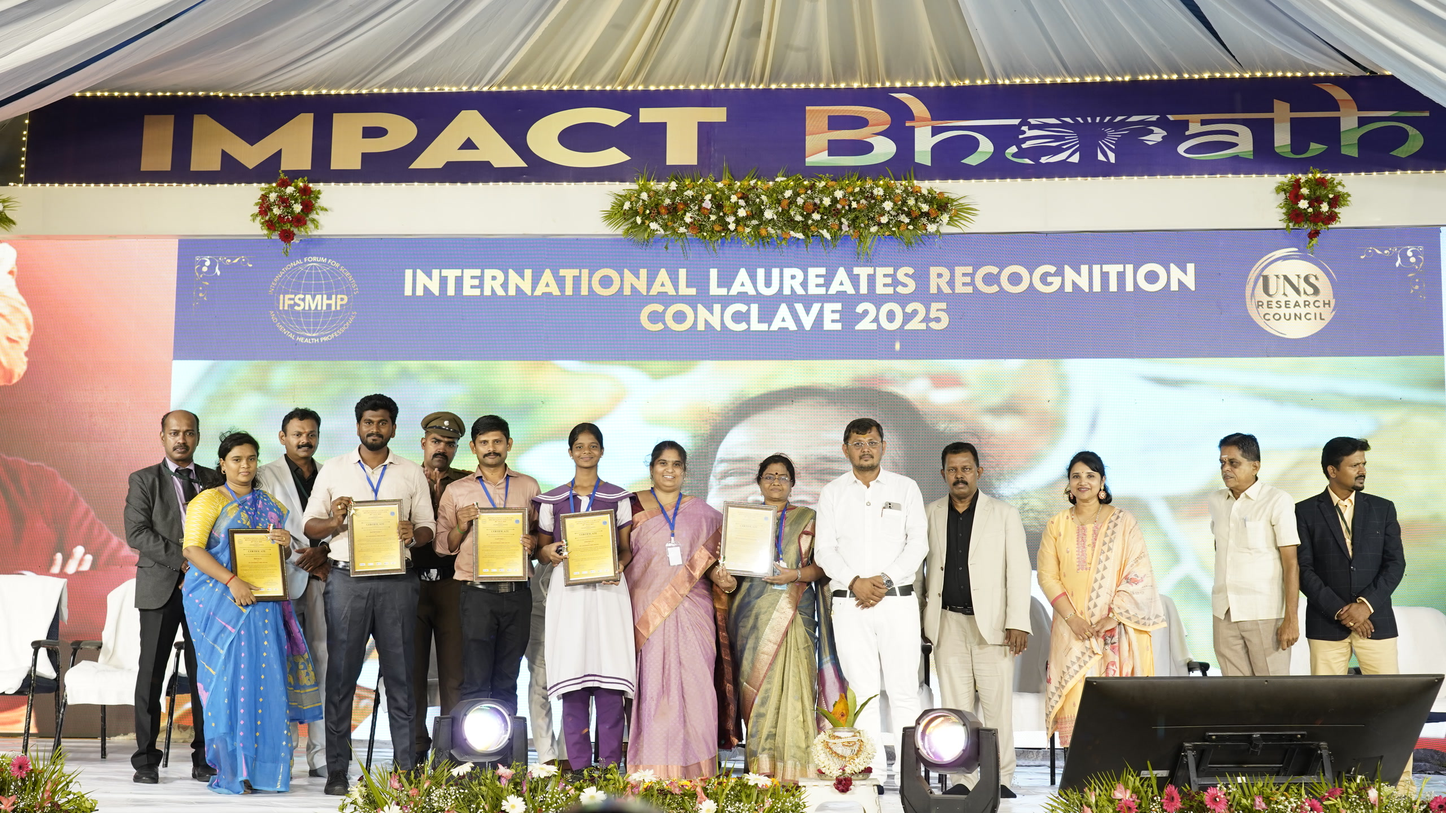
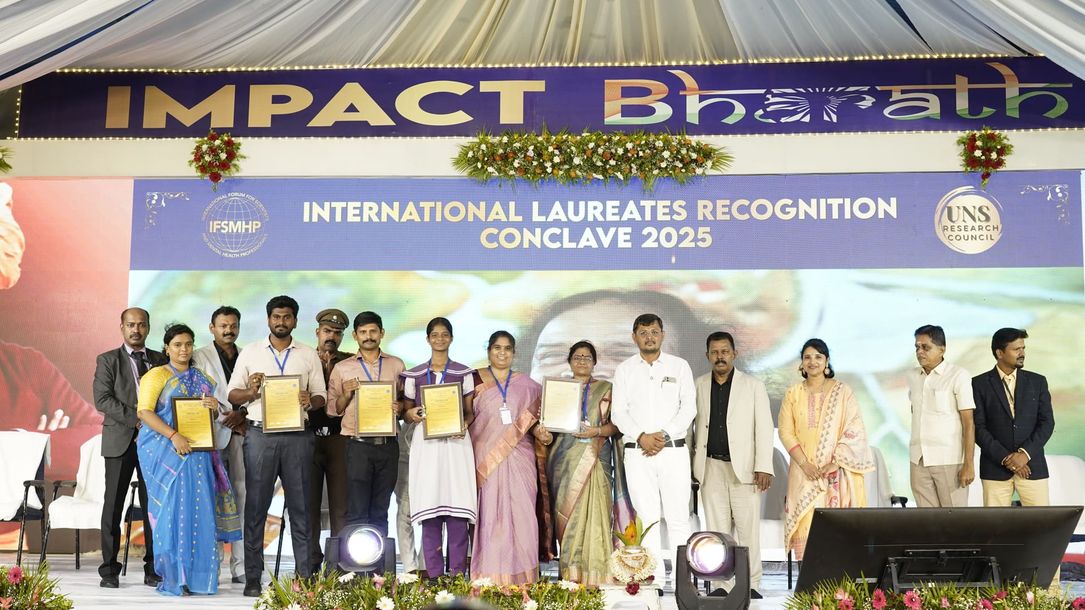
Align home carousel with 2026 awards and speed up hero images.
Update globe chips to Second International Awards details, prefer award-event photos when no carousel uploads exist, and compress backdrop JPEGs.

Changed region(s): [[0.7188, 0.9778, 0.75, 1.0], [0.7188, 0.1528, 0.75, 0.1833], [0.2812, 0.9778, 0.3125, 1.0]]

diff --git a/frontend/src/pages/public/HomePage.tsx b/frontend/src/pages/public/HomePage.tsx
@@ -22,7 +22,15 @@ import {
 import Section from '../../components/common/Section';
 import Button from '../../components/common/Button';
 import GallerySection from '../../components/gallery/GallerySection';
+import { awardEventMediaAlt, awardEventMediaApi } from '../../api/awardEventMedia';
 import { homeCarouselImageUrl, publicApi } from '../../api/public';
+import {
+  CEREMONY_EVENT_DATE,
+  CEREMONY_PAGE_TITLE,
+  CEREMONY_VENUE,
+  ceremonyProgramme,
+} from '../../domain/ceremonyProgramme';
+import { CEREMONY_INFORMATION_PATH, CEREMONY_NOMINATE_PATH, CEREMONY_PAGE_PATH } from '../../domain/ceremonyRegistration';
 
 import ceremonyConclave01 from '../../assets/images/carousel/laureates-conclave-01.jpg';
 import ceremonyConclave02 from '../../assets/images/carousel/laureates-conclave-02.jpg';
@@ -104,71 +112,54 @@ interface HomeBannerSlide {
 
 const HOME_BANNERS: HomeBannerSlide[] = [
   {
-    id: 'home-banner-community',
-    eyebrow: { icon: Globe2, label: 'Global Community' },
-    title: 'Advancing Global Research & Mental Health Through Collaborative Excellence',
-    highlightWord: 'Collaborative Excellence',
-    lead: 'Join 277 leading Scientists and Mental Health Professionals worldwide in shaping the future of evidence-based research and practice.',
+    id: 'home-banner-awards-2026',
+    eyebrow: { icon: Award, label: CEREMONY_PAGE_TITLE },
+    title: 'Second International IFSMHP Awards Ceremony 2026',
+    highlightWord: 'IFSMHP Awards',
+    lead: `${ceremonyProgramme.totalLabel}. The ceremony is on ${CEREMONY_EVENT_DATE} at ${CEREMONY_VENUE}, Pune.`,
     chips: [
-      { label: '277+ members' },
-      { label: 'Across', value: '14 countries' },
-      { label: '1,000 target', value: 'by 2027' },
-    ],
-    gradientOverlay: 'from-forum-950/50 via-forum-950/12 to-transparent',
-    ctas: [
-      { to: '/register', label: 'Become a Member', variant: 'primary', icon: ArrowRight },
-      { to: '/research', label: 'View Published Research', variant: 'outline', icon: FileText },
-    ],
-  },
-  {
-    id: 'home-banner-symposium',
-    eyebrow: { icon: Calendar, label: 'Spring Symposium 2026 · Save the date' },
-    title: 'The IFSMHP Spring Symposium — Call for Abstracts Now Open',
-    highlightWord: 'Call for Abstracts Now Open',
-    lead: 'Submit your methodological, clinical or policy-focused work by 15 October 2026. Three tracks, 9 keynote plenaries, and a riverside networking reception hosted at the India Forum Hall.',
-    chips: [
-      { label: 'Dates', value: '12–14 Mar 2026' },
-      { label: 'Venue', value: 'India' },
-      { label: '3 tracks', value: '9 keynotes' },
-    ],
-    gradientOverlay: 'from-forum-950/48 via-forum-900/10 to-transparent',
-    ctas: [
-      { to: '/events', label: 'View Event Programme', variant: 'primary', icon: ArrowRight },
-      { to: '/#gallery-section', label: 'Browse Event Gallery', variant: 'outline', icon: Sparkles },
-    ],
-  },
-  {
-    id: 'home-banner-awards',
-    eyebrow: { icon: Award, label: 'CRO Awards Night 2025 · Hall of Fame' },
-    title: 'Honouring Nine Distinguished Contributors to Global Mental Health Science',
-    highlightWord: 'Hall of Fame',
-    lead: 'The 2025 CRO Lifetime Contribution, Distinguished Service and Early-Career Citations were awarded on 22 November at the IFSMHP Awards Dinner. Read citations, view portraits and download commemorative publications.',
-    chips: [
-      { label: 'Awardees', value: '9 honoured' },
-      { label: 'Categories', value: '4 prizes' },
-      { label: 'Portraits', value: '11 curated' },
+      { label: 'Date', value: CEREMONY_EVENT_DATE },
+      { label: 'Venue', value: 'Pune' },
+      { label: 'Recipients', value: '75 awards' },
     ],
     gradientOverlay: 'from-forum-950/46 via-brass-950/10 to-transparent',
     ctas: [
-      { to: '/product-reviews', label: 'Read Awardee Citations', variant: 'primary', icon: ArrowRight },
-      { to: '/#gallery-section', label: 'View Awards Gallery', variant: 'outline', icon: Sparkles },
+      { to: CEREMONY_PAGE_PATH, label: 'Ceremony details', variant: 'primary', icon: ArrowRight },
+      { to: CEREMONY_INFORMATION_PATH, label: 'Award information', variant: 'outline', icon: Sparkles },
     ],
   },
   {
-    id: 'home-banner-reviews',
-    eyebrow: { icon: Sparkles, label: 'Expert Reviews · Updated weekly' },
-    title: 'Independent, Methodologically Grounded Perspectives on Products, Services & Policies',
-    highlightWord: 'Expert Perspectives',
-    lead: 'Fifteen new member reviews published this quarter across five review pillars — from digital therapeutics and teletherapy networks to EU mental health strategy and AI-assisted triage safety.',
+    id: 'home-banner-award-categories',
+    eyebrow: { icon: Calendar, label: 'Nominations open' },
+    title: '25 commemorative categories across Senior, Mid-career, and Young divisions',
+    highlightWord: '25 commemorative categories',
+    lead: 'Nominate distinguished contributors across scientific, medical, economic, literary, and social-impact fields for independent review.',
     chips: [
-      { label: 'Pillars', value: '5 categories' },
-      { label: 'This quarter', value: '15 new reviews' },
-      { label: 'Disclosures', value: '100% declared' },
+      { label: 'Categories', value: '25 disciplines' },
+      { label: 'Divisions', value: '3 levels' },
+      { label: 'Total', value: '75 recipients' },
     ],
-    gradientOverlay: 'from-forum-950/48 via-slateteal-950/10 to-transparent',
+    gradientOverlay: 'from-forum-950/48 via-forum-900/10 to-transparent',
     ctas: [
-      { to: '/product-reviews', label: 'Browse Expert Reviews', variant: 'primary', icon: ArrowRight },
-      { to: '/membership', label: 'Become a Reviewer', variant: 'outline', icon: BookOpen },
+      { to: CEREMONY_NOMINATE_PATH, label: 'Submit a nomination', variant: 'primary', icon: ArrowRight },
+      { to: CEREMONY_INFORMATION_PATH, label: 'Eligibility & evaluation', variant: 'outline', icon: FileText },
+    ],
+  },
+  {
+    id: 'home-banner-award-venue',
+    eyebrow: { icon: Globe2, label: 'Pune ceremony' },
+    title: `${CEREMONY_VENUE} · ${CEREMONY_EVENT_DATE}`,
+    highlightWord: CEREMONY_VENUE,
+    lead: 'Join delegates, student poster presenters, and nominators at Azam Campus for the Second International IFSMHP Awards Ceremony.',
+    chips: [
+      { label: 'Hall', value: 'Azam Campus' },
+      { label: 'City', value: 'Pune' },
+      { label: 'Year', value: '2026' },
+    ],
+    gradientOverlay: 'from-forum-950/50 via-forum-950/12 to-transparent',
+    ctas: [
+      { to: CEREMONY_PAGE_PATH, label: 'Register interest', variant: 'primary', icon: ArrowRight },
+      { to: CEREMONY_INFORMATION_PATH, label: 'Previous event gallery', variant: 'outline', icon: Sparkles },
     ],
   },
 ];
@@ -184,19 +175,19 @@ const BUILTIN_CAROUSEL: CarouselPhoto[] = [
   {
     id: 'laureates-conclave-01',
     src: ceremonyConclave01,
-    alt: 'Laureates holding plaques on stage at the International Laureates Recognition Conclave 2025',
+    alt: 'Laureates holding plaques on stage at the International Laureates Recognition Conclave',
     focusPosition: '50% 42%',
   },
   {
     id: 'laureates-conclave-02',
     src: ceremonyConclave02,
-    alt: 'Certificate presentation at the International Laureates Recognition Conclave 2025',
+    alt: 'Certificate presentation at the International Laureates Recognition Conclave',
     focusPosition: '50% 40%',
   },
   {
     id: 'laureates-conclave-03',
     src: ceremonyConclave03,
-    alt: 'Laureates and guests on the full stage at the International Laureates Recognition Conclave 2025',
+    alt: 'Laureates and guests on the full stage at the International Laureates Recognition Conclave',
     focusPosition: '50% 48%',
   },
 ];
@@ -205,15 +196,30 @@ function useCarouselPhotos() {
   const [photos, setPhotos] = useState<CarouselPhoto[] | null>(null);
   useEffect(() => {
     const controller = new AbortController();
-    publicApi.homeCarousel(controller.signal).then(items => {
+    Promise.all([
+      publicApi.homeCarousel(controller.signal).catch(() => []),
+      awardEventMediaApi.listPublic('image').catch(() => []),
+    ]).then(([carousel, awardImages]) => {
       if (controller.signal.aborted) return;
-      setPhotos(items.map(item => ({
-        id: item.id,
-        src: homeCarouselImageUrl(item.imageUrl),
-        alt: item.altText || 'IFSMHP event photograph',
-      })));
-    }).catch(() => {
-      if (!controller.signal.aborted) setPhotos([]);
+      if (carousel.length) {
+        setPhotos(carousel.map(item => ({
+          id: item.id,
+          src: homeCarouselImageUrl(item.imageUrl),
+          alt: item.altText || 'IFSMHP award ceremony photograph',
+          focusPosition: '50% 40%',
+        })));
+        return;
+      }
+      if (awardImages.length) {
+        setPhotos(awardImages.slice(0, 8).map((item, index) => ({
+          id: item.id,
+          src: item.mediaUrl,
+          alt: awardEventMediaAlt(item, { index, total: awardImages.length }),
+          focusPosition: '50% 40%',
+        })));
+        return;
+      }
+      setPhotos([]);
     });
     return () => controller.abort();
   }, []);
@@ -231,13 +237,14 @@ export default function HomePage() {
   }), [photos]);
   const [bannerIndex, setBannerIndex] = useState(0);
   const [bannerHover, setBannerHover] = useState(false);
-  const [loadedSlides, setLoadedSlides] = useState<number[]>(() => [0, 1]);
+  const [loadedSlides, setLoadedSlides] = useState<number[]>(() => [0]);
 
   useEffect(() => {
-    setBannerIndex(index => index % slides.length);
+    setBannerIndex(index => (slides.length ? index % slides.length : 0));
   }, [slides.length]);
 
   useEffect(() => {
+    if (!slides.length) return;
     const upcoming = (bannerIndex + 1) % slides.length;
     setLoadedSlides((current) => {
       if (current.includes(bannerIndex) && current.includes(upcoming)) return current;
@@ -249,7 +256,7 @@ export default function HomePage() {
     if (bannerHover || slides.length < 2) return;
     const t = window.setInterval(() => {
       setBannerIndex((i) => (i + 1) % slides.length);
-    }, 6200);
+    }, 7000);
     return () => window.clearInterval(t);
   }, [bannerHover, slides.length]);
 
@@ -297,11 +304,13 @@ export default function HomePage() {
                   <img
                     src={slide.bgImage}
                     alt={slide.alt}
-                    width={2560}
-                    height={1440}
+                    width={1920}
+                    height={1080}
+                    sizes="100vw"
                     style={{ objectPosition: slide.focusPosition }}
                     className="absolute inset-0 h-full w-full select-none object-cover"
                     decoding="async"
+                    loading={i === 0 ? 'eager' : 'lazy'}
                     fetchPriority={i === bannerIndex ? 'high' : 'low'}
                   />
                 ) : null}

diff --git a/frontend/src/pages/admin/AdminCarouselPage.tsx b/frontend/src/pages/admin/AdminCarouselPage.tsx
@@ -15,9 +15,9 @@ const MAX_SLIDES = 12;
 const MAX_BYTES = 15 * 1024 * 1024;
 const PHOTO_TYPES = new Set(['image/jpeg', 'image/png', 'image/webp']);
 const BUILTIN = [
-  { src: ceremonyConclave01, label: 'Laureates with plaques' },
-  { src: ceremonyConclave02, label: 'Certificate presentation' },
-  { src: ceremonyConclave03, label: 'Full stage' },
+  { src: ceremonyConclave01, label: 'Laureates with plaques · prior award ceremony' },
+  { src: ceremonyConclave02, label: 'Certificate presentation · prior award ceremony' },
+  { src: ceremonyConclave03, label: 'Full stage · prior award ceremony' },
 ];
 
 function SlidePreview({ src, alt }: { src: string; alt: string }) {
@@ -114,7 +114,7 @@ export default function AdminCarouselPage() {
           </Link>
           <h1 className="mt-2 font-display text-2xl font-semibold text-forum-900 sm:text-3xl">Home carousel</h1>
           <p className="mt-1.5 text-sm text-ink-muted">
-            Upload the photographs for the front-page carousel. Each photograph keeps the existing title, globe, and caption treatment.
+            Upload front-page carousel photographs. If none are uploaded, the site uses published Award event media, then the built-in Second International Awards ceremony set.
           </p>
         </div>
         <div>
